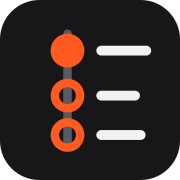
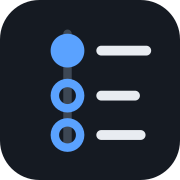
feat(theme): switch the palette from orange to blue and silver

Changed region(s): [[0.2778, 0.1667, 0.4722, 0.8611]]

diff --git a/src/styles/global.css b/src/styles/global.css
@@ -1,14 +1,14 @@
 :root {
   color-scheme: light dark;
 
-  --bg: light-dark(#f3f4f6, #0c0c0e);
-  --surface: light-dark(#ffffff, #17171a);
-  --ink: light-dark(#111114, #f2f2f4);
-  --muted: light-dark(#6b6b72, #9a9aa3);
-  --line: light-dark(#d9dadf, #2a2a30);
-  --line-strong: light-dark(#b9bac2, #46464f);
-  --accent: light-dark(#c2410c, #ff7a45);
-  --accent-ink: light-dark(#ffffff, #141414);
+  --bg: light-dark(#eef1f5, #0b0e13);
+  --surface: light-dark(#ffffff, #151a22);
+  --ink: light-dark(#0f1419, #e8ecf1);
+  --muted: light-dark(#5f6b7a, #97a3b3);
+  --line: light-dark(#cfd6df, #262d38);
+  --line-strong: light-dark(#a9b3c0, #3d4754);
+  --accent: light-dark(#1d5fd1, #5aa2ff);
+  --accent-ink: light-dark(#ffffff, #0b0e13);
 
   --font-body:
     -apple-system, BlinkMacSystemFont, 'SF Pro Text', 'Helvetica Neue',

diff --git a/src/pages/manifest.webmanifest.ts b/src/pages/manifest.webmanifest.ts
@@ -10,8 +10,8 @@ export const GET: APIRoute = () => {
     description: UI.en.siteDescription,
     start_url: withBase('/'),
     display: 'browser',
-    background_color: '#f3f4f6',
-    theme_color: '#f3f4f6',
+    background_color: '#eef1f5',
+    theme_color: '#eef1f5',
     icons: [
       { src: withBase('/icon-192.png'), sizes: '192x192', type: 'image/png' },
       { src: withBase('/icon-512.png'), sizes: '512x512', type: 'image/png' },
